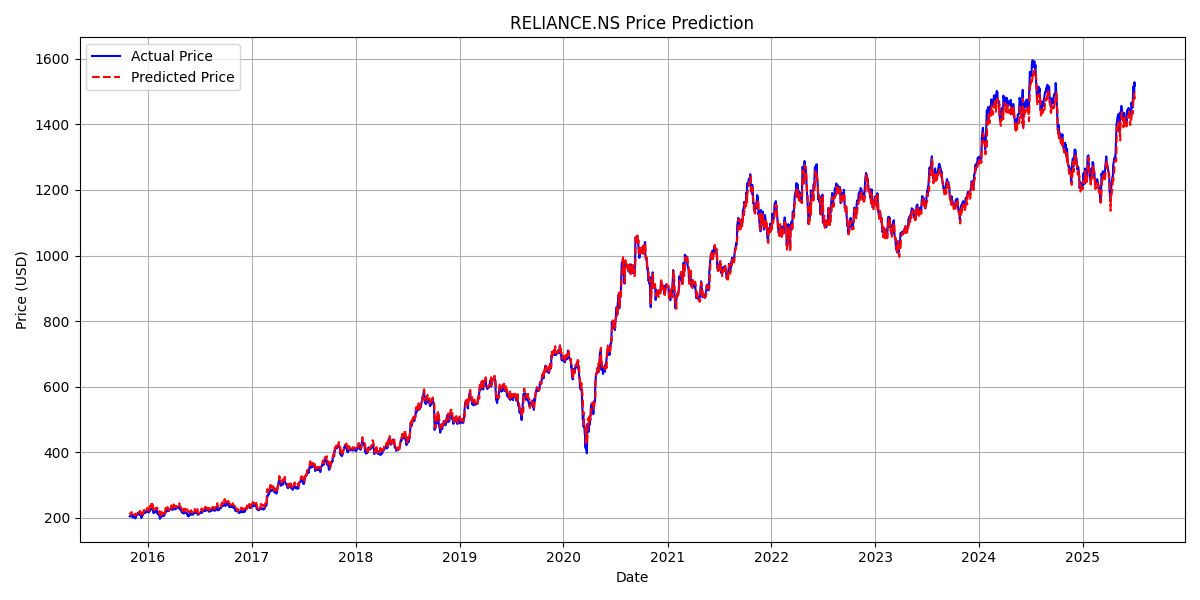
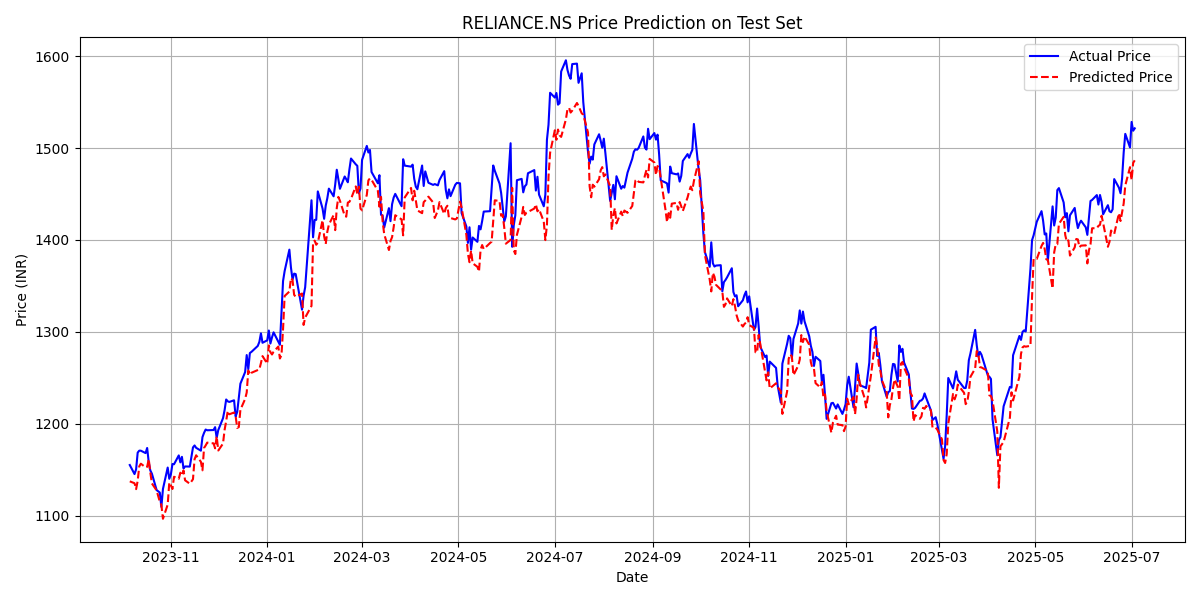
changes in model training and prediction

diff --git a/stock-predictor/app.py b/stock-predictor/app.py
@@ -21,7 +21,7 @@ st.set_page_config(page_title="Stock Price Predictor", layout="wide")
 # --- Header ---
 with st.container():
     st.title("LSTM Stock Price Predictor")
-    st.write("Enter a valid stock ticker from Yahoo Finance (e.g., 'RELIANCE.NS', 'AAPL', 'TSLA').")
+    st.write("Enter a valid stock ticker from Yahoo Finance (e.g., 'RELIANCE.NS', 'TATAMOTORS.NS', 'ADANIENT.NS').")
     st.write("The model will be trained live if a pre-trained version for the selected parameters isn't available. This might take a few minutes.")
 
 # --- 1. LSTM Model Definition ---
@@ -34,11 +34,17 @@ class LSTMModel(nn.Module):
 
     def forward(self, input_seq):
         lstm_out, _ = self.lstm(input_seq)
-        # We only want the output of the last time step
         predictions = self.linear(lstm_out[:, -1, :])
         return predictions
 
-# --- 2. Main Content ---
+# --- 2. Evaluation Metrics ---
+def get_metrics(actual, predicted):
+    rmse = np.sqrt(np.mean((predicted - actual) ** 2))
+    mape = np.mean(np.abs((actual - predicted) / actual)) * 100
+    smape = np.mean(2 * np.abs(predicted - actual) / (np.abs(actual) + np.abs(predicted))) * 100
+    return rmse, mape, smape
+
+# --- 3. Main Content ---
 with st.container():
     st.sidebar.header("Hyperparameter Tuning")
     use_default_hyperparameters = st.sidebar.checkbox("Use Default Hyperparameters", True)
@@ -69,14 +75,14 @@ with st.container():
     if predict_button and ticker:
         with st.spinner(f"Running prediction for {ticker}... This may take a moment."):
             try:
-                # --- 3. Setup and Configuration ---
+                # --- 4. Setup and Configuration ---
                 create_ticker_dirs(ticker)
                 model_name = f"{ticker}_s{seq_length}_h{hidden_layer_size}_e{epochs}_b{batch_size}_lr{learning_rate}.pth"
                 model_path = get_model_path(ticker, model_name)
                 plot_name = model_name.replace('.pth', '.png')
                 plot_path = get_plot_path(ticker, plot_name)
 
-                # --- 4. Data Fetching and Preprocessing ---
+                # --- 5. Data Fetching and Preprocessing ---
                 @st.cache_data
                 def load_data(ticker_symbol):
                     end_date = datetime.now()
@@ -106,33 +112,37 @@ with st.container():
                     FEATURES = ['Close', 'Volume', 'Open', 'High', 'Low', 'SMA', 'EMA', 'RSI', 'Day_of_week', 'Month']
                     INPUT_SIZE = len(FEATURES)
                     
-                    data_to_scale = df[FEATURES].values
-                    scaler = MinMaxScaler(feature_range=(-1, 1))
-                    scaled_data = scaler.fit_transform(data_to_scale)
-                    
-                    # We need a separate scaler for the 'Close' price to inverse transform later
-                    close_price_scaler = MinMaxScaler(feature_range=(-1, 1))
-                    close_price_scaler.fit(df[['Close']])
+                    # --- 6. Train-Test Split ---
+                    test_data_size = int(len(df) * 0.2)
+                    train_data_df = df[:-test_data_size]
+                    test_data_df = df[-test_data_size:]
 
+                    # --- 7. Scaling ---
+                    scaler = MinMaxScaler(feature_range=(-1, 1))
+                    train_data_scaled = scaler.fit_transform(train_data_df[FEATURES].values)
+                    test_data_scaled = scaler.transform(test_data_df[FEATURES].values)
+
+                    close_price_scaler = MinMaxScaler(feature_range=(-1, 1))
+                    close_price_scaler.fit(train_data_df[['Close']])
 
                     def create_inout_sequences(input_data, seq_len):
                         inout_seq = []
                         L = len(input_data)
                         for i in range(L - seq_len):
                             train_seq = input_data[i:i + seq_len]
-                            train_label = input_data[i + seq_len:i + seq_len + 1, 0] # Target is the 'Close' price
+                            train_label = input_data[i + seq_len:i + seq_len + 1, 0]
                             inout_seq.append((train_seq, train_label))
                         return inout_seq
 
-                    sequences = create_inout_sequences(scaled_data, seq_length)
-                    
-                    # --- 5. Model Training or Loading ---
+                    train_sequences = create_inout_sequences(train_data_scaled, seq_length)
+                    test_sequences = create_inout_sequences(test_data_scaled, seq_length)
+
+                    # --- 8. Model Training or Loading ---
                     model = LSTMModel(INPUT_SIZE, hidden_layer_size)
 
                     if not model_exists(model_path):
-                        st.info(f"No pre-trained model found for {ticker} with these parameters. Training a new model...")
-                        
-                        train_data = TensorDataset(torch.FloatTensor([s[0] for s in sequences]), torch.FloatTensor([s[1] for s in sequences]))
+                        st.info(f"No pre-trained model found for {ticker}. Training a new model...")
+                        train_data = TensorDataset(torch.FloatTensor([s[0] for s in train_sequences]), torch.FloatTensor([s[1] for s in train_sequences]))
                         train_loader = DataLoader(train_data, shuffle=True, batch_size=batch_size)
 
                         loss_function = nn.MSELoss()
@@ -160,38 +170,43 @@ with st.container():
                         st.success(f"Loading pre-trained model for {ticker} from {model_path}")
                         model.load_state_dict(torch.load(model_path))
 
-                    # --- 6. Prediction ---
+                    # --- 9. Prediction and Evaluation ---
                     model.eval()
                     
-                    # Predict on the entire dataset for plotting
-                    full_data_tensor = torch.FloatTensor([s[0] for s in sequences]).view(-1, seq_length, INPUT_SIZE)
+                    test_inputs = torch.FloatTensor([s[0] for s in test_sequences])
                     with torch.no_grad():
-                        test_predictions = model(full_data_tensor).numpy()
+                        test_predictions_scaled = model(test_inputs).numpy()
 
-                    # Inverse transform predictions
-                    actual_predictions = close_price_scaler.inverse_transform(test_predictions)
-                    
-                    # Get the last sequence to predict the next day
-                    last_sequence = torch.FloatTensor(scaled_data[-seq_length:]).view(1, seq_length, INPUT_SIZE)
+                    actual_predictions = close_price_scaler.inverse_transform(test_predictions_scaled)
+                    actuals = test_data_df['Close'].values[seq_length:]
+
+                    rmse, mape, smape = get_metrics(actuals, actual_predictions.flatten())
+
+                    full_scaled_data = scaler.transform(df[FEATURES].values)
+                    last_sequence = torch.FloatTensor(full_scaled_data[-seq_length:]).view(1, seq_length, INPUT_SIZE)
                     with torch.no_grad():
                         next_day_prediction_scaled = model(last_sequence)
                     
                     next_day_prediction = close_price_scaler.inverse_transform(next_day_prediction_scaled.numpy())
                     
                     st.subheader(f"Predicted Close Price for next trading day:")
-                    st.metric(label=f"{ticker}", value=f"${next_day_prediction[0][0]:.2f}")
+                    st.metric(label=f"{ticker}", value=f"₹{next_day_prediction[0][0]:.2f}")
 
-                    # --- 7. Plotting ---
-                    st.subheader("Actual vs. Predicted Prices")
-                    
-                    actuals = df['Close'].values[seq_length:]
-                    
+                    st.subheader("Model Performance on Unseen Test Data")
+                    col1, col2, col3 = st.columns(3)
+                    col1.metric("RMSE", f"₹{rmse:.2f}")
+                    col2.metric("MAPE", f"{mape:.2f}%")
+                    col3.metric("SMAPE", f"{smape:.2f}%")
+
+                    # --- 10. Plotting ---
+                    plot_index = test_data_df.index[seq_length:]
+
                     fig, ax = plt.subplots(figsize=(12, 6))
-                    ax.plot(df.index[seq_length:], actuals, label='Actual Price', color='blue')
-                    ax.plot(df.index[seq_length:], actual_predictions, label='Predicted Price', color='red', linestyle='--')
-                    ax.set_title(f'{ticker} Price Prediction')
+                    ax.plot(plot_index, actuals, label='Actual Price', color='blue')
+                    ax.plot(plot_index, actual_predictions, label='Predicted Price', color='red', linestyle='--')
+                    ax.set_title(f'{ticker} Price Prediction on Test Set')
                     ax.set_xlabel('Date')
-                    ax.set_ylabel('Price (USD)')
+                    ax.set_ylabel('Price (INR)')
                     ax.legend()
                     ax.grid(True)
                     plt.tight_layout()
@@ -199,7 +214,7 @@ with st.container():
                     st.pyplot(fig)
                     fig.savefig(plot_path)
                     st.info(f"Plot saved to {plot_path}")
-                    plt.close(fig)  # Close the figure to free memory
+                    plt.close(fig)
 
             except Exception as e:
                 st.error(f"An error occurred: {e}")
@@ -212,4 +227,3 @@ with st.container():
     st.header("Disclaimer")
     st.write("This is a tool for educational purposes and not financial advice. Always conduct your own thorough research before making any investment decisions.")
     st.write("Stock market predictions are inherently uncertain, and past performance is not indicative of future results.")
-

diff --git a/scripts/ensemble_predictor.py b/scripts/ensemble_predictor.py
@@ -1,0 +1,181 @@
+import sys
+import os
+import yfinance as yf
+import numpy as np
+import pandas as pd
+from sklearn.preprocessing import MinMaxScaler
+from sklearn.ensemble import RandomForestRegressor, GradientBoostingRegressor
+from datetime import datetime, timedelta
+import matplotlib.pyplot as plt
+
+# Add the current directory to the Python path
+sys.path.append(os.path.dirname(os.path.abspath(__file__)))
+
+# --- Evaluation Metrics ---
+def get_metrics(actual, predicted):
+    rmse = np.sqrt(np.mean((predicted - actual) ** 2))
+    mape = np.mean(np.abs((actual - predicted) / actual)) * 100
+    smape = np.mean(2 * np.abs(predicted - actual) / (np.abs(actual) + np.abs(predicted))) * 100
+    return rmse, mape, smape
+
+# --- Main Ensemble Prediction Logic ---
+def run_ensemble_prediction(ticker="RELIANCE.NS"):
+    print(f"\n--- Running Ensemble Prediction for {ticker} ---")
+
+    # --- Data Fetching and Preprocessing ---
+    def load_data(ticker_symbol):
+        end_date = datetime.now()
+        start_date = end_date - timedelta(days=10 * 365) # 10 years of data
+        data = yf.download(ticker_symbol, start=start_date, end=end_date)
+        if data.empty:
+            return None
+        return data
+
+    df = load_data(ticker)
+
+    if df is None:
+        print(f"Error: Could not download data for ticker '{ticker}'.")
+        return
+    
+    # Flatten multi-level columns if yfinance returned them
+    if isinstance(df.columns, pd.MultiIndex):
+        df.columns = df.columns.get_level_values(0)
+
+    # Feature Engineering
+    df['SMA'] = df['Close'].rolling(window=20).mean()
+    df['EMA'] = df['Close'].ewm(span=20, adjust=False).mean()
+    delta = df['Close'].diff()
+    gain = (delta.where(delta > 0, 0)).rolling(window=14).mean()
+    loss = (-delta.where(delta < 0, 0)).rolling(window=14).mean()
+    rs = gain / loss
+    df['RSI'] = 100 - (100 / (100 + rs))
+    df['Day_of_week'] = df.index.dayofweek
+    df['Month'] = df.index.month
+
+    # --- Add Lagged Features ---
+    lookback_period = 5 # Use past 5 days' Close prices as features
+    for i in range(1, lookback_period + 1):
+        df[f'Close_Lag_{i}'] = df['Close'].shift(i)
+    
+    df.dropna(inplace=True)
+
+    FEATURES = ['Close', 'Volume', 'Open', 'High', 'Low', 'SMA', 'EMA', 'RSI', 'Day_of_week', 'Month']
+    # Add lagged features to the FEATURES list
+    for i in range(1, lookback_period + 1):
+        FEATURES.append(f'Close_Lag_{i}')
+
+    TARGET = 'Close'
+
+    # Prepare data for traditional ML models (X, y)
+    X = df[FEATURES].drop(columns=[TARGET])
+    y = df[TARGET]
+
+    # Ensure all column names are strings (redundant after flattening df.columns, but safe)
+    X.columns = X.columns.astype(str)
+
+    # --- Train-Test Split ---
+    test_size = 0.2
+    split_index = int(len(df) * (1 - test_size))
+
+    X_train, X_test = X.iloc[:split_index], X.iloc[split_index:]
+    y_train, y_test = y.iloc[:split_index], y.iloc[split_index:]
+
+    # --- Scaling ---
+    # Scale features (X)
+    scaler_X = MinMaxScaler(feature_range=(0, 1))
+    X_train_scaled = scaler_X.fit_transform(X_train)
+    X_test_scaled = scaler_X.transform(X_test)
+
+    # Scale target (y) - important for some models, but for tree-based models, often not strictly necessary
+    # However, for consistency and potential future use with other models, we'll scale it.
+    scaler_y = MinMaxScaler(feature_range=(0, 1))
+    y_train_scaled = scaler_y.fit_transform(y_train.values.reshape(-1, 1))
+    y_test_scaled = scaler_y.transform(y_test.values.reshape(-1, 1))
+
+    # --- Model Training ---
+    print("Training RandomForestRegressor...")
+    rf_model = RandomForestRegressor(n_estimators=100, random_state=42)
+    rf_model.fit(X_train_scaled, y_train_scaled.flatten())
+
+    print("Training GradientBoostingRegressor...")
+    gb_model = GradientBoostingRegressor(n_estimators=100, learning_rate=0.1, random_state=42)
+    gb_model.fit(X_train_scaled, y_train_scaled.flatten())
+
+    # --- Prediction on Test Set ---
+    rf_predictions_scaled = rf_model.predict(X_test_scaled)
+    gb_predictions_scaled = gb_model.predict(X_test_scaled)
+
+    # Combine predictions (simple averaging)
+    ensemble_predictions_scaled = (rf_predictions_scaled + gb_predictions_scaled) / 2
+
+    # Inverse transform predictions to original scale
+    ensemble_predictions = scaler_y.inverse_transform(ensemble_predictions_scaled.reshape(-1, 1)).flatten()
+    actuals_test = y_test.values
+
+    # --- Evaluate Ensemble Model ---
+    rmse, mape, smape = get_metrics(actuals_test, ensemble_predictions)
+
+    print(f"\nEnsemble Model Performance on Test Data for {ticker}:")
+    print(f"  RMSE: {rmse:.2f}")
+    print(f"  MAPE: {mape:.2f}%")
+    print(f"  SMAPE: {smape:.2f}%")
+
+    # --- Predict Next Day's Price ---
+    # To predict the next day, we need to construct the input features for that day.
+    # This involves getting the last 'lookback_period' actual close prices
+    # and the latest values for other features.
+
+    # Create a dictionary to hold the next day's input features
+    next_day_features_values = {}
+
+    # Populate non-lagged features from the last row of df
+    for feature in FEATURES:
+        if not feature.startswith('Close_Lag_'):
+            next_day_features_values[feature] = df[feature].iloc[-1]
+
+    # Populate lagged features
+    # Close_Lag_1 for the next day is the last actual Close price
+    next_day_features_values['Close_Lag_1'] = df['Close'].iloc[-1]
+    for i in range(2, lookback_period + 1):
+        # Close_Lag_i for the next day is Close_Lag_{i-1} from the last row of df
+        next_day_features_values[f'Close_Lag_{i}'] = df[f'Close_Lag_{i-1}'].iloc[-1]
+
+    # Ensure the order of columns matches X.columns for scaling
+    next_day_input_list = [next_day_features_values[col] for col in X.columns]
+    next_day_input_df = pd.DataFrame([next_day_input_list], columns=X.columns)
+
+    # Scale the next day's input features
+    next_day_input_scaled = scaler_X.transform(next_day_input_df)
+
+    rf_next_day_pred_scaled = rf_model.predict(next_day_input_scaled)
+    gb_next_day_pred_scaled = gb_model.predict(next_day_input_scaled)
+
+    ensemble_next_day_pred_scaled = (rf_next_day_pred_scaled + gb_next_day_pred_scaled) / 2
+    next_day_prediction = scaler_y.inverse_transform(ensemble_next_day_pred_scaled.reshape(-1, 1)).flatten()[0]
+
+    print(f"\nPredicted Close Price for next trading day ({ticker}): {next_day_prediction:.2f}")
+
+    # --- Plotting ---
+    plot_dir = os.path.join(os.path.dirname(os.path.abspath(__file__)), "..", "stock-predictor", "plots", "generic")
+    os.makedirs(plot_dir, exist_ok=True)
+    plot_path = os.path.join(plot_dir, f"{ticker}_ensemble_prediction_plot.png")
+
+    fig, ax = plt.subplots(figsize=(12, 6))
+    ax.plot(y_test.index, actuals_test, label='Actual Price', color='blue')
+    ax.plot(y_test.index, ensemble_predictions, label='Predicted Price', color='red', linestyle='--')
+    ax.set_title(f'{ticker} Ensemble Model Prediction on Test Set')
+    ax.set_xlabel('Date')
+    ax.set_ylabel('Price (INR)')
+    ax.legend()
+    ax.grid(True)
+    plt.tight_layout()
+    
+    fig.savefig(plot_path)
+    plt.close(fig)
+    print(f"Plot saved to {plot_path}")
+
+if __name__ == "__main__":
+    if len(sys.argv) > 1:
+        run_ensemble_prediction(sys.argv[1].upper())
+    else:
+        run_ensemble_prediction()
